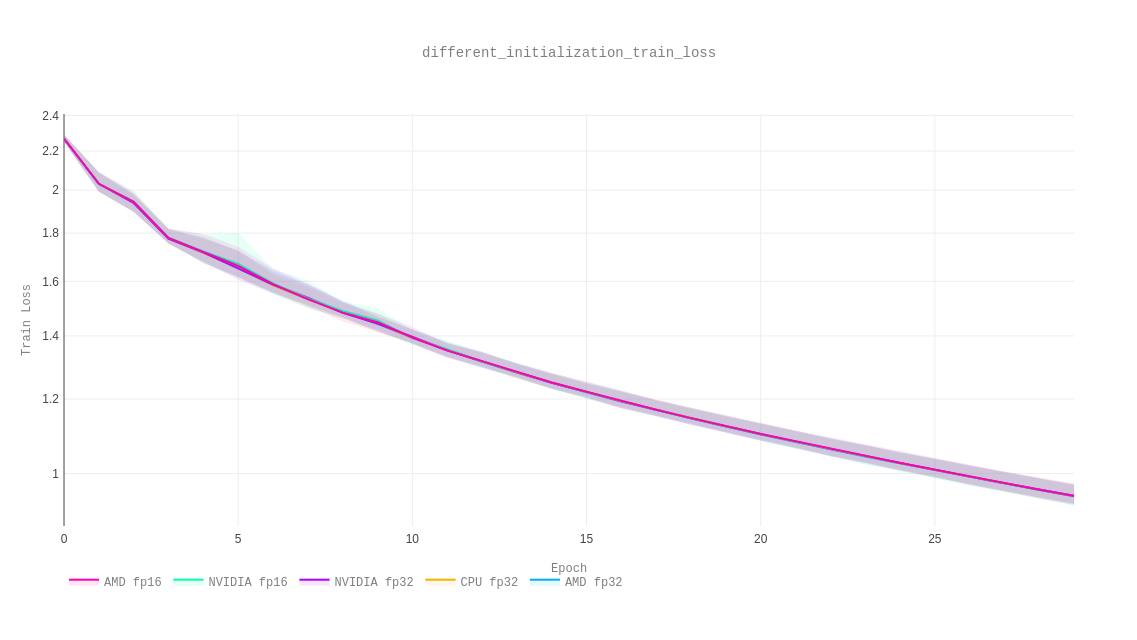
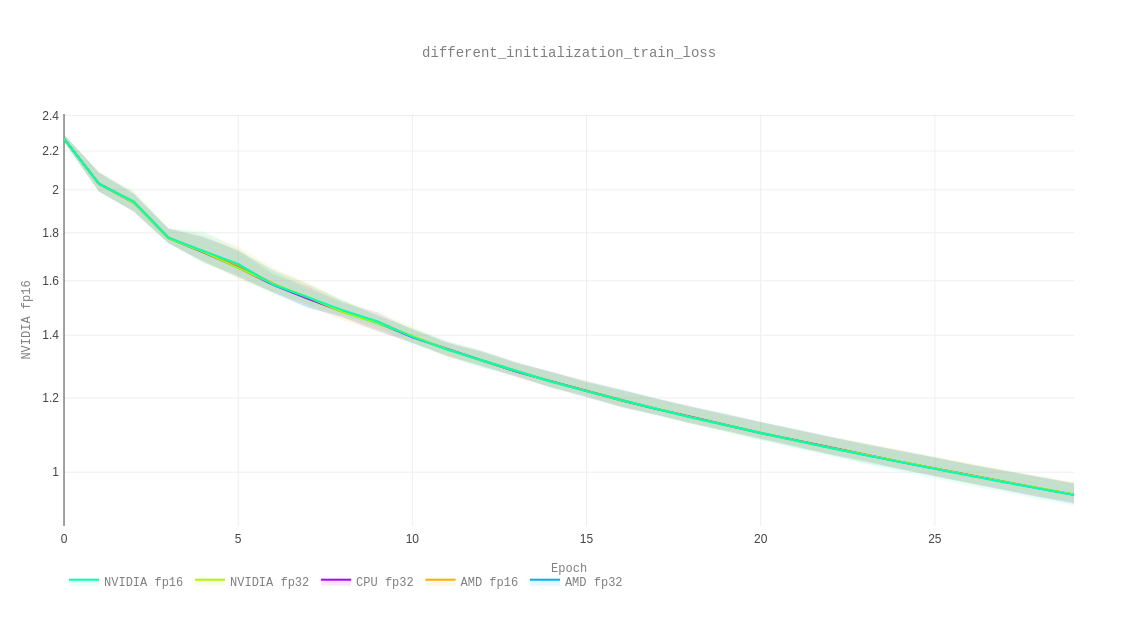
refactor run script

Changed region(s): [[0.0616, 0.2188, 0.9543, 0.7812], [0.0616, 0.875, 0.3386, 0.9375], [0.0, 0.4375, 0.0308, 0.5625]]

diff --git a/reproducibility/plot.py b/reproducibility/plot.py
@@ -153,46 +153,79 @@ metric = 'test_acc'
 
 for m, name in [('test_acc', 'Test Accuracy'), ('train_loss', 'Train Loss'), ('test_loss', 'Test Loss')]:
 
-    amd_2 = get_curve_with_error(
-        f'{BASE}/results/amd_2.json', name=f'AMD fp32', metric=m, color=color_palette[0])
+    curves_2 = []
+    files = [
+        (f'{BASE}/results/amd_2.json', f'AMD fp32'),
+        (f'{BASE}/results/amd_fp16_2.json', f'AMD fp16'),
+        (f'{BASE}/results/cpu_2.json', f'CPU fp32'),
+        (f'{BASE}/results/nvidia_2.json', f'NVIDIA fp32'),
+        (f'{BASE}/results/nvidia_p100_fp16_2.json', f'NVIDIA fp16')
+    ]
 
-    amd_2_fp16 = get_curve_with_error(
-        f'{BASE}/results/amd_fp16_2.json', name=f'AMD fp16', metric=m, color=color_palette[5])
-
-    cpu_2 = get_curve_with_error(
-        f'{BASE}/results/cpu_2.json', name=f'CPU fp32', metric=m, color=color_palette[1])
-
-    nvidia_2 = get_curve_with_error(
-        f'{BASE}/results/nvidia_2.json', name=f'NVIDIA fp32', metric=m, color=color_palette[2])
-
-    nvidia_2_fp16 = get_curve_with_error(
-        f'{BASE}/results/nvidia_p100_fp16_2.json', name=f'NVIDIA fp16', metric=m, color=color_palette[4])
+    for i, (file, name) in enumerate(files):
+        curves_2.append(get_curve_with_error(file, name, m, color_palette[i]))
 
     plot_lines(
-        [amd_2, cpu_2, nvidia_2, nvidia_2_fp16, amd_2_fp16],
+        curves_2,
         graph_name=f'different_initialization_{m}',
         y_name=name,
         folder=f'{BASE}/graphs'
     )
 
-    amd_1 = get_curve_with_error(
-        f'{BASE}/results/amd_1.json', name=f'AMD fp32', metric=m, color=color_palette[0])
+    curves_1 = []
+    files = [
+        (f'{BASE}/results/amd_1.json', f'AMD fp32'),
+        (f'{BASE}/results/amd_fp16_1.json', f'AMD fp16'),
+        (f'{BASE}/results/cpu_1.json', f'CPU fp32'),
+        (f'{BASE}/results/nvidia_1.json', f'NVIDIA fp32'),
+        (f'{BASE}/results/nvidia_p100_fp16_1.json', f'NVIDIA fp16')
+    ]
 
-    amd_1_fp16 = get_curve_with_error(
-        f'{BASE}/results/amd_fp16_1.json', name=f'AMD fp16', metric=m, color=color_palette[5])
-
-    cpu_1 = get_curve_with_error(
-        f'{BASE}/results/cpu_1.json', name=f'CPU fp32', metric=m, color=color_palette[1])
-
-    nvidia_1 = get_curve_with_error(
-        f'{BASE}/results/nvidia_1.json', name=f'NVIDIA fp32', metric=m, color=color_palette[2])
-
-    nvidia_1_fp16 = get_curve_with_error(
-        f'{BASE}/results/nvidia_p100_fp16_1.json', name=f'NVIDIA fp16', metric=m, color=color_palette[4])
+    for i, (file, name) in enumerate(files):
+        curves_1.append(get_curve_with_error(file, name, m, color_palette[i]))
 
     plot_lines(
-        [amd_1, cpu_1, nvidia_1, nvidia_1_fp16, amd_1_fp16],
+        curves_1,
         graph_name=f'same_initialization_{m}',
+        y_name=name,
+        folder=f'{BASE}/graphs'
+    )
+
+
+for m, name in [('test_acc', 'Test Accuracy'), ('train_loss', 'Train Loss'), ('test_loss', 'Test Loss')]:
+
+    curves_2 = []
+    files = [
+        (f'{BASE}/results/resnet18_amd_2.json', f'AMD fp32'),
+        # (f'{BASE}/results/amd_fp16_2.json', f'AMD fp16'),
+        (f'{BASE}/results/resnet18_nvidia_2.json', f'NVIDIA fp32'),
+        # (f'{BASE}/results/nvidia_p100_fp16_2.json', f'NVIDIA fp16')
+    ]
+
+    for i, (file, name) in enumerate(files):
+        curves_2.append(get_curve_with_error(file, name, m, color_palette[i]))
+
+    plot_lines(
+        curves_2,
+        graph_name=f'resnet18_different_initialization_{m}',
+        y_name=name,
+        folder=f'{BASE}/graphs'
+    )
+
+    curves_1 = []
+    files = [
+        (f'{BASE}/results/resnet18_amd_1.json', f'AMD fp32'),
+        # (f'{BASE}/results/amd_fp16_1.json', f'AMD fp16'),
+        (f'{BASE}/results/resnet18_nvidia_1.json', f'NVIDIA fp32'),
+        # (f'{BASE}/results/nvidia_p100_fp16_1.json', f'NVIDIA fp16')
+    ]
+
+    for i, (file, name) in enumerate(files):
+        curves_1.append(get_curve_with_error(file, name, m, color_palette[i]))
+
+    plot_lines(
+        curves_1,
+        graph_name=f'resnet18_same_initialization_{m}',
         y_name=name,
         folder=f'{BASE}/graphs'
     )

diff --git a/reproducibility/convnets.py b/reproducibility/convnets.py
@@ -11,7 +11,7 @@ import torchvision.models as models
 import torch.nn.functional as F
 import argparse
 import os
-
+import traceback
 from apex import amp
 
 
@@ -35,18 +35,19 @@ parser.add_argument('--shape', nargs='*', default=(3, 32, 32))
 
 parser.add_argument('--data', metavar='DIR', default='mnist', help='path to dataset')
 parser.add_argument('--init', default=None, help='reuse an init weight', type=str)
+parser.add_argument('--report', default='report.json')
 
 WEIGHT_LOC = os.path.dirname(os.path.realpath(__file__)) + '/weights'
 
 # ----
-trial = TrackClient(backend='file:report.json')
+args = parser.parse_args()
+trial = TrackClient(backend=f'file:{args.report}')
 trial.set_project(
     name='Reproducibility',
     description='Test NVIDIA vs AMD performance in term of loss/accuracy')
 
 trial.new_trial()
-
-args = trial.get_arguments(parser.parse_args(), show=True)
+args = trial.get_arguments(args, show=True)
 device = trial.get_device()
 
 tag = 'cpu'
@@ -62,8 +63,9 @@ torch.manual_seed(args.seed)
 try:
     import torch.backends.cudnn as cudnn
     cudnn.benchmark = True
+
 except Exception:
-    pass
+    traceback.print_exc()
 
 
 class ConvClassifier(nn.Module):
@@ -220,10 +222,7 @@ def do_one_epoch(train_loader):
 
 def eval_model(test_loader):
     batch_id = 0
-    epoch_loss = 0
-
     batch_iter = iter(test_loader)
-    test_acc = 0
 
     acc_items = []
     loss_items = []
